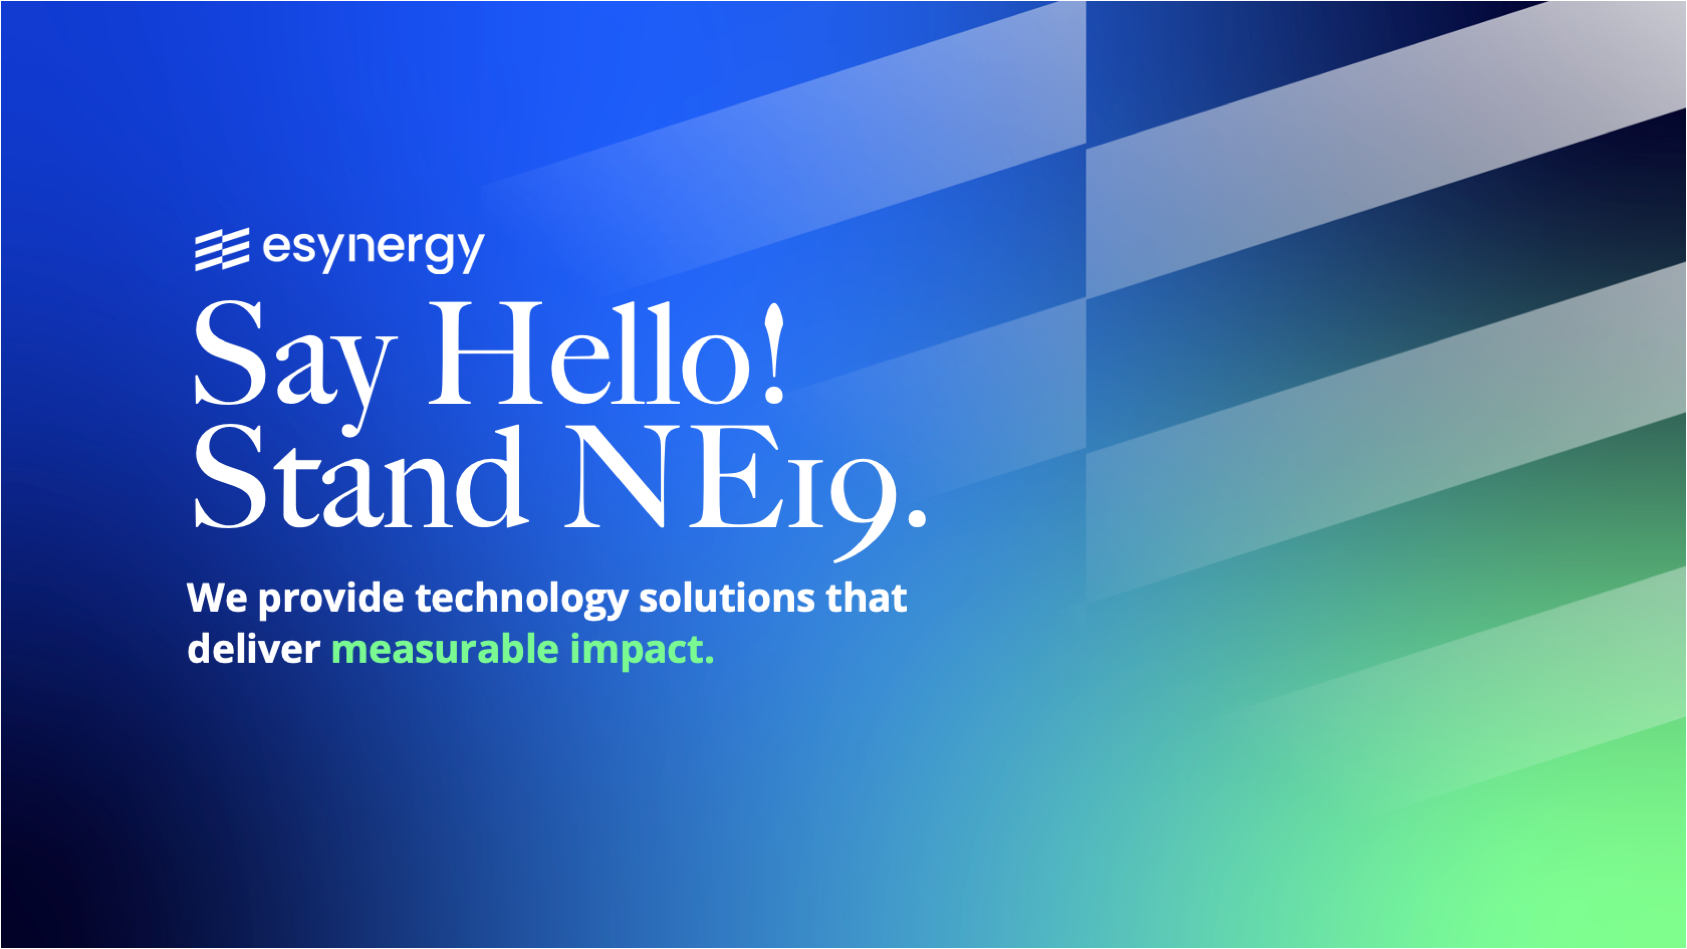
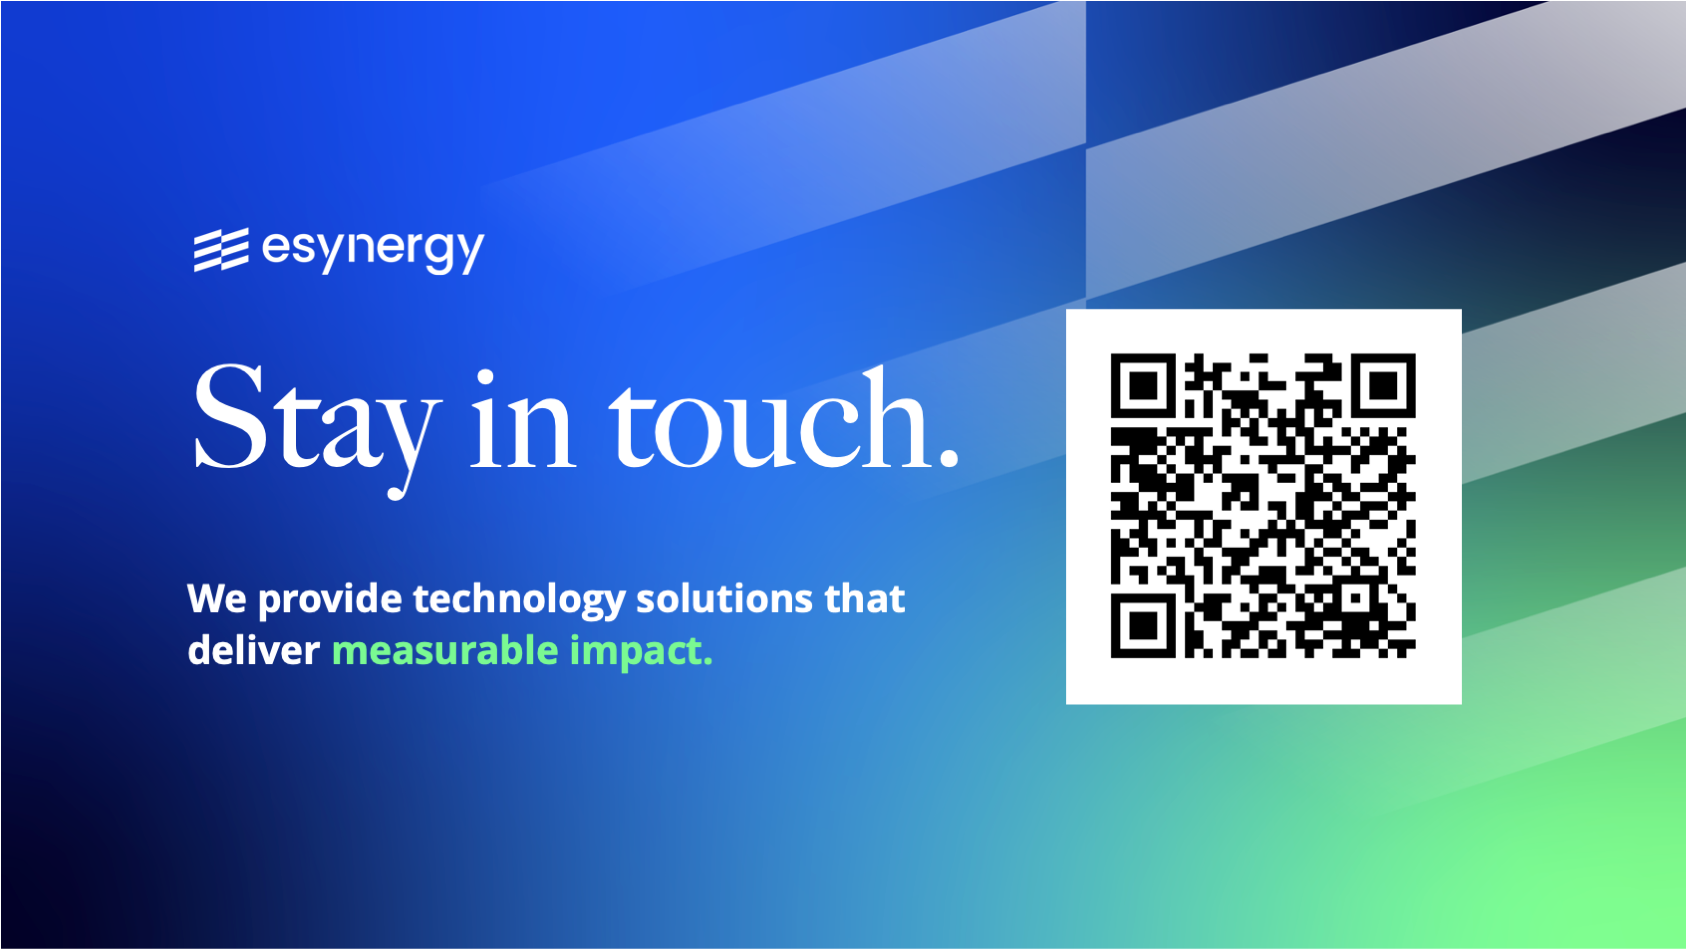
re-add esyn branding

diff --git a/IsItTimeToPutYourPetKubernetesDown.md b/IsItTimeToPutYourPetKubernetesDown.md
@@ -8,6 +8,10 @@ class: lead
 video_embed: <iframe width="560" height="315" src="https://www.youtube-nocookie.com/embed/W-FYK8sgSKo" title="YouTube video player" frameborder="0" allow="accelerometer; autoplay; clipboard-write; encrypted-media; gyroscope; picture-in-picture" allowfullscreen></iframe>
 ---
 
+![bg](./images/esynergy-isittime-head.png)
+
+---
+
 <!-- _class: title-page-->
 
 <div>
@@ -26,6 +30,8 @@ viewBox="0 24 150 28" preserveAspectRatio="none" shape-rendering="auto">
 </div>
 
 <div class="scanlines"></div>
+
+![w:550 esynergylogo](./images/esynergy-logo.png)
 
 # Is it time to put your pet Kubernetes down?<br/> 🐶☸🔫⁉
 
@@ -949,3 +955,7 @@ Questions are very welcome on this or anything else, I'll hold the stage as long
 
 <Change to last slide>
 -->
+
+---
+
+![bg cover](./images/DTXesynergyslide.png)
